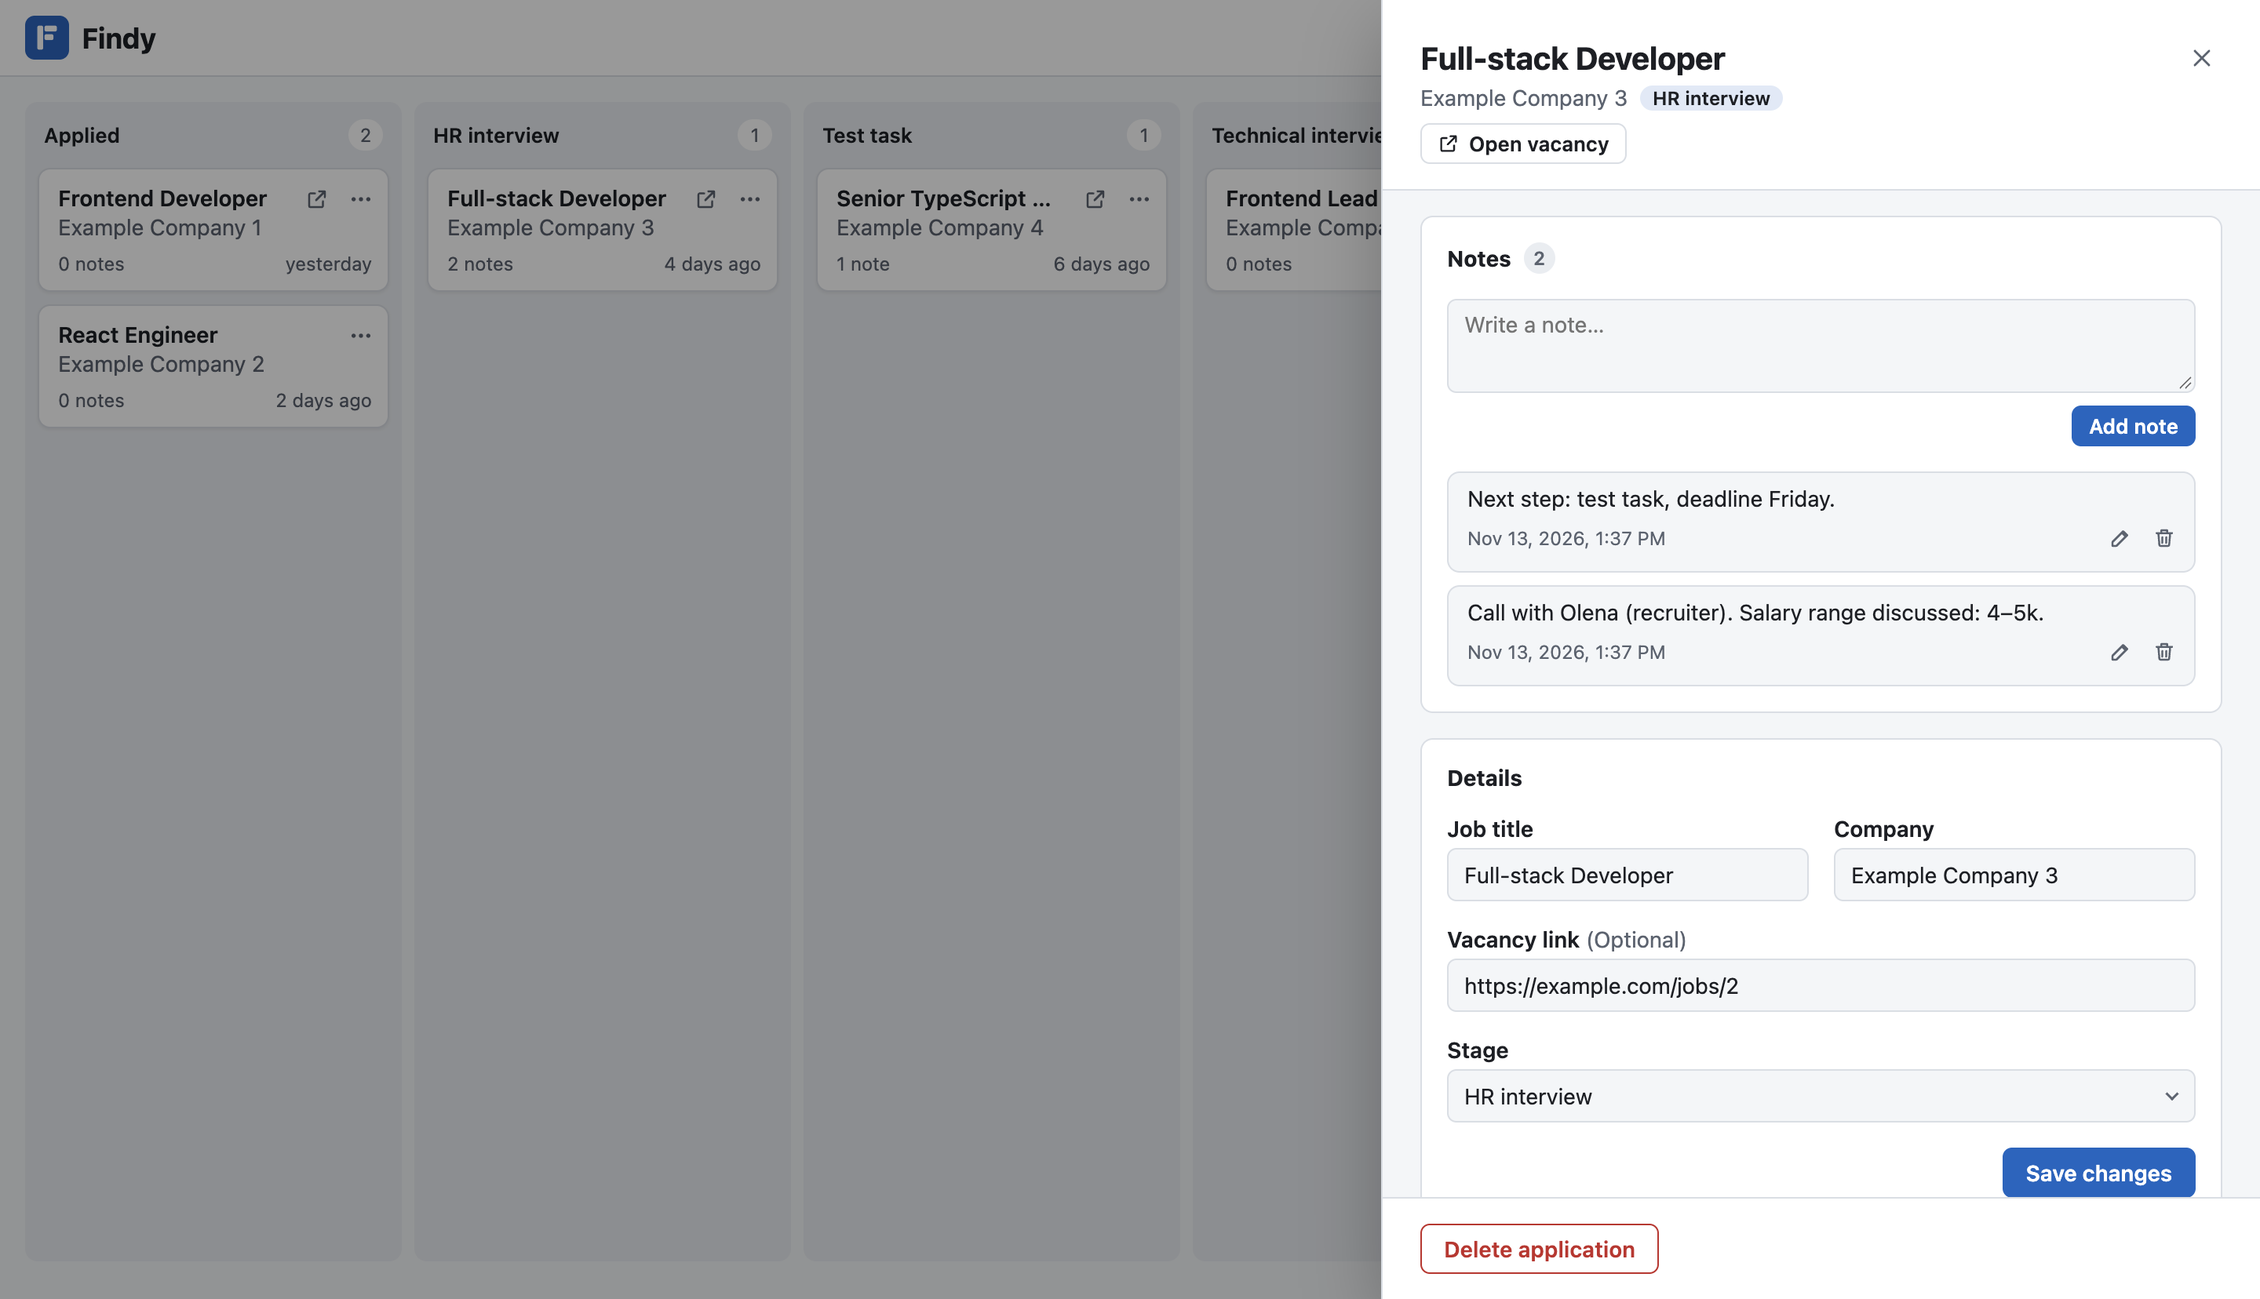
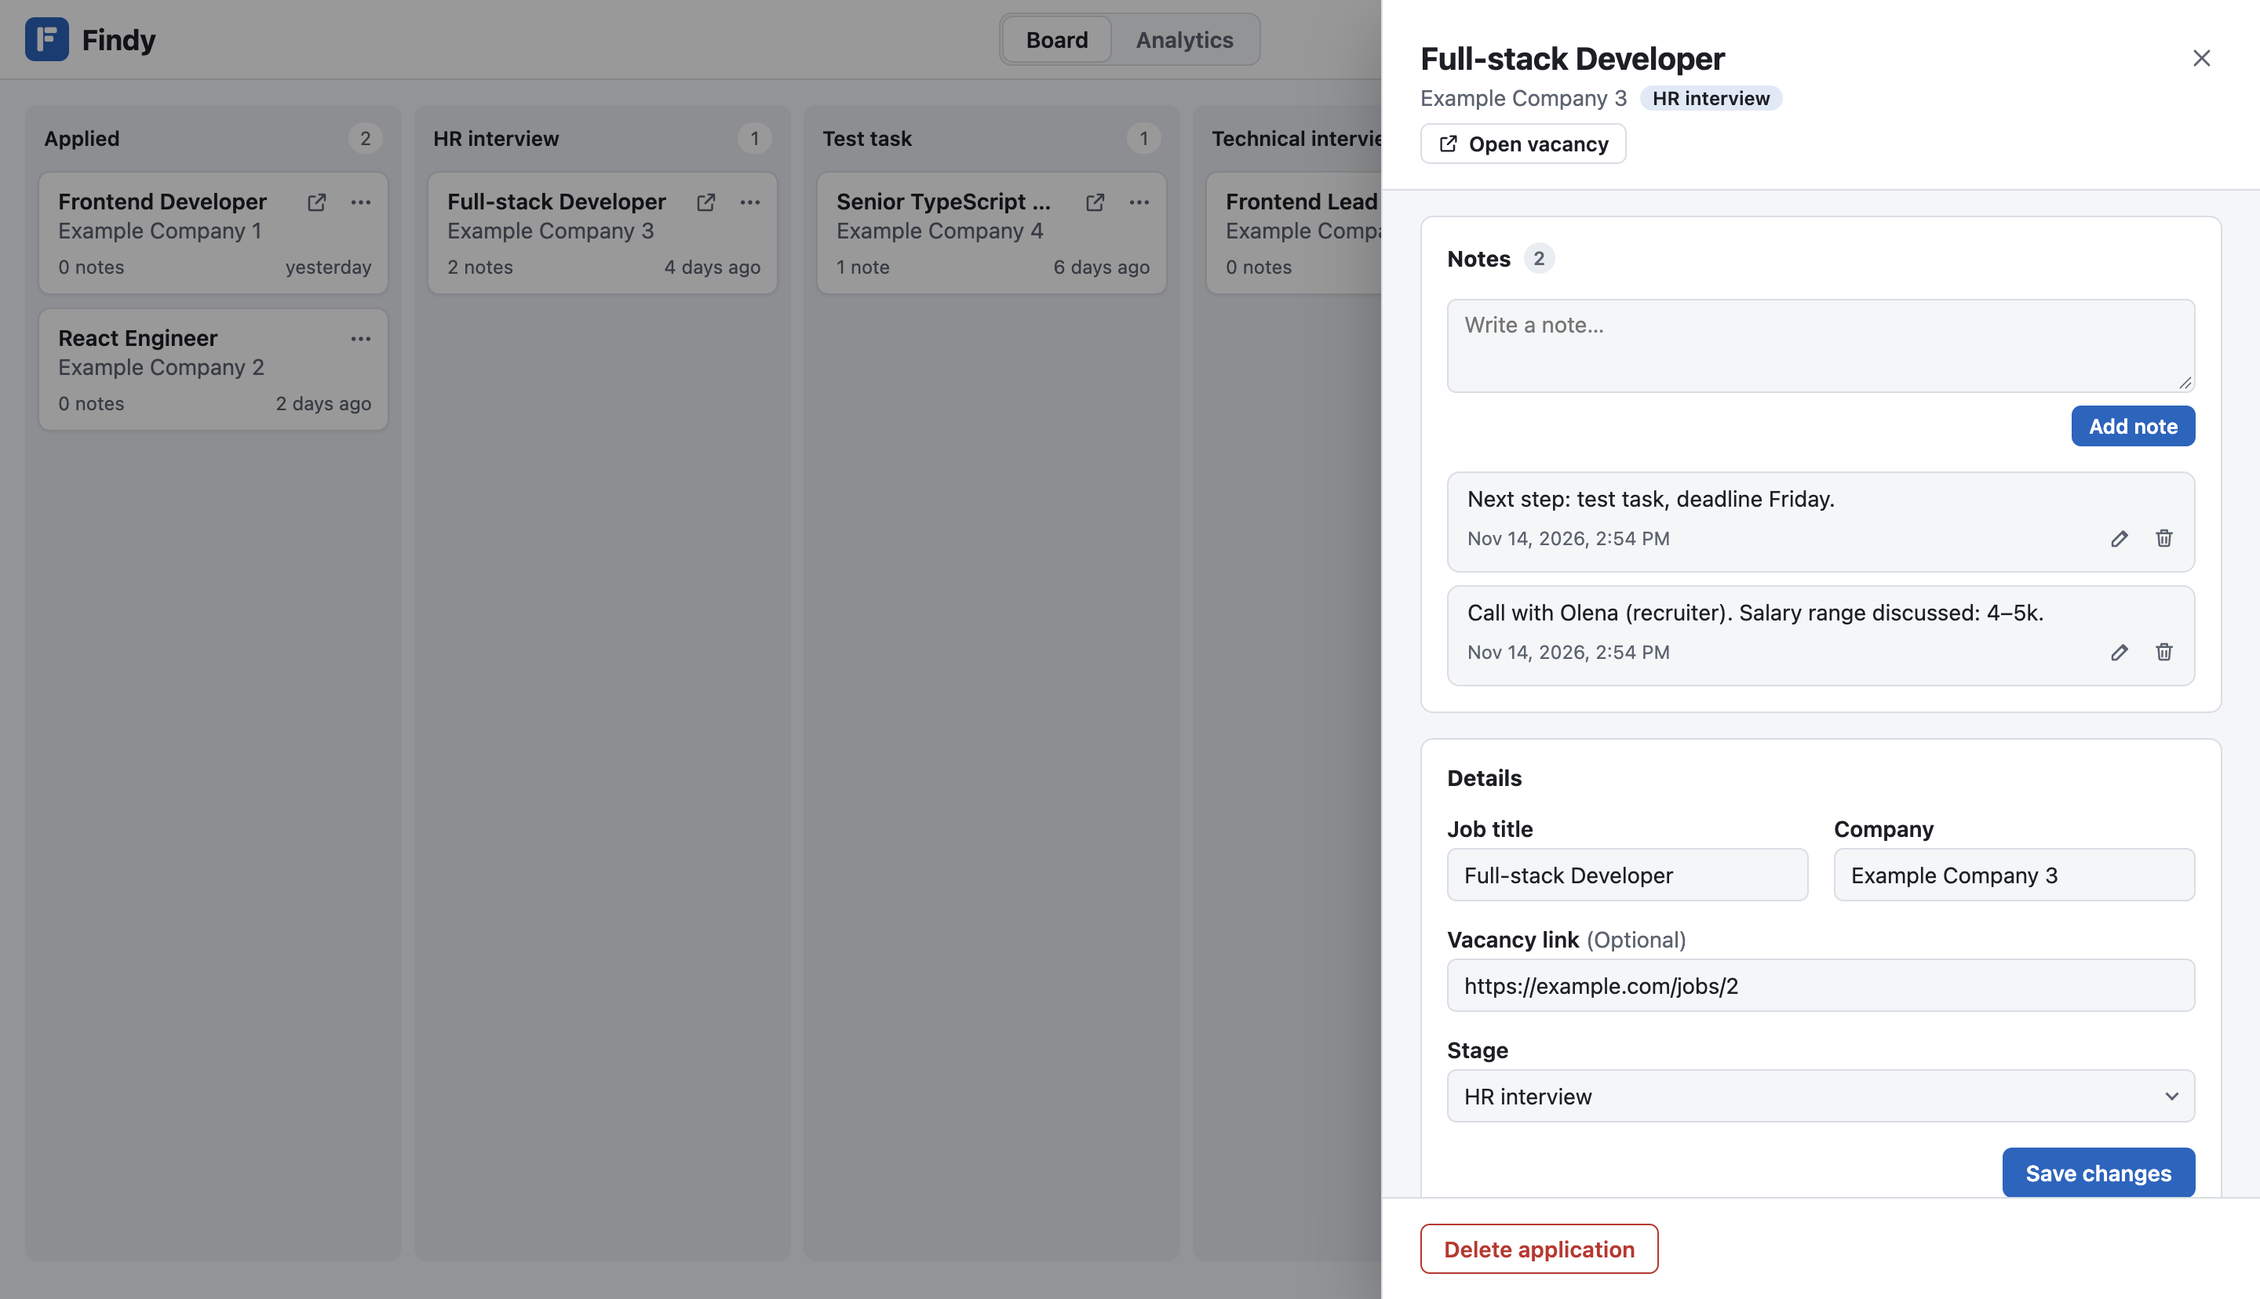
release: 0.2.0 — analytics, update check; README and screenshots
- Version 0.2.0; CHANGELOG section for analytics and the update check.
- README (en, uk): analytics and update check in the features, the
  privacy text with the one opt-in network request, a new analytics
  screenshot; board and details screenshots show the new tabs.
- Screenshot script: three months of made-up history for analytics, an
  emulated 1440×1060 Retina viewport so the whole screen fits.
- Analytics layout: the funnel takes a full row with aligned bars, and
  the chart cards in one row have the same height.
- Specs 005 and 006: Implemented.

diff --git a/e2e/self-tests/readme-screenshots.test.ts b/e2e/self-tests/readme-screenshots.test.ts
@@ -1,6 +1,7 @@
 import { join } from 'node:path'
 import Database from 'better-sqlite3'
-import { test } from '../fixtures/app'
+import type { StageId } from '../../src/domain/stages'
+import { test, type HistoryApplication } from '../fixtures/app'
 
 // Regenerates docs/screenshots/*.png for the READMEs: `npm run screenshots`.
 // Skipped in normal test runs.
@@ -160,3 +161,57 @@ for (const lang of ['en', 'uk'] as const) {
     await page.screenshot({ path: join(OUT, `details-${lang}.png`) })
   })
 }
+
+// Spec 005: three months of made-up history, so the charts have a shape. Fixed seed,
+// so the screenshots change only when the app changes.
+function demoHistory(): HistoryApplication[] {
+  let seed = 7
+  const random = () => (seed = (seed * 1_103_515_245 + 12_345) % 2 ** 31) / 2 ** 31
+  return Array.from({ length: 70 }, (_, i) => {
+    // More applications in the recent weeks
+    const created = Math.floor(84 * random() ** 1.5)
+    const reach = random()
+    const path: StageId[] = []
+    if (reach > 0.45) path.push('hr_interview')
+    if (reach > 0.62 && random() > 0.4) path.push('test_task')
+    if (reach > 0.72) path.push('technical_interview')
+    if (reach > 0.88) path.push('c_level_interview')
+    if (reach > 0.95) path.push('offered')
+    if (path.at(-1) !== 'offered' && random() > 0.55) path.push('rejected')
+    let day = created
+    const moves = path.map((stage): [StageId, number] => {
+      day = Math.max(0, day - 1 - Math.floor(random() * 6))
+      return [stage, day]
+    })
+    return { title: `Example role ${i + 1}`, createdDaysAgo: created, moves }
+  })
+}
+
+test.describe('analytics', () => {
+  test.use({ history: { applications: demoHistory() } })
+
+  for (const lang of ['en', 'uk'] as const) {
+    test(`README analytics screenshot (${lang})`, async ({ findy, page }) => {
+      // An emulated viewport at Retina density, like the other screenshots: the screen
+      // limits the height of a real window
+      const cdp = await page.context().newCDPSession(page)
+      await cdp.send('Emulation.setDeviceMetricsOverride', {
+        width: 1440,
+        height: 1060,
+        deviceScaleFactor: 2,
+        mobile: false,
+      })
+      await findy.api.setTheme('light')
+      await findy.api.setLanguage(lang)
+      await findy.api.setAnalyticsView({ period: '90d', grouping: 'week' })
+      await findy.refresh()
+      await page.getByRole('tab', { name: lang === 'en' ? 'Analytics' : 'Аналітика' }).click()
+      await page
+        .getByTestId('app')
+        .getByRole('tabpanel')
+        .getByRole('heading', { level: 2 })
+        .waitFor()
+      await page.screenshot({ path: join(OUT, `analytics-${lang}.png`) })
+    })
+  }
+})

diff --git a/src/renderer/features/analytics/ChartCard/ChartCard.tsx b/src/renderer/features/analytics/ChartCard/ChartCard.tsx
@@ -1,6 +1,7 @@
 import { useState, type ReactNode } from 'react'
 import { useTranslation } from 'react-i18next'
 import { Button, DataTable, Section } from '@ui'
+import styles from './ChartCard.module.css'
 
 interface Props {
   title: string
@@ -15,7 +16,7 @@ export function ChartCard({ title, table, children }: Props) {
   const [asTable, setAsTable] = useState(false)
   // A wrapper, so cards in a grid are not adjacent sections with a top margin
   return (
-    <div>
+    <div className={styles.card}>
       <Section
         title={title}
         actions={

diff --git a/e2e/data/findy-backdoor.ts b/e2e/data/findy-backdoor.ts
@@ -1,5 +1,6 @@
 import type { ElectronApplication, Page } from '@playwright/test'
 import type {
+  AnalyticsView,
   AppState,
   Language,
   McpConnection,
@@ -106,6 +107,10 @@ export class FindyBackdoor {
 
   async setTheme(theme: Theme): Promise<void> {
     await this.page.evaluate((value) => window.findy.setTheme(value), theme)
+  }
+
+  async setAnalyticsView(view: AnalyticsView): Promise<void> {
+    await this.page.evaluate((value) => window.findy.setAnalyticsView(value), view)
   }
 
   async setHiddenStages(stages: StageId[]): Promise<void> {

diff --git a/src/renderer/features/analytics/Analytics/Analytics.tsx b/src/renderer/features/analytics/Analytics/Analytics.tsx
@@ -58,7 +58,9 @@ export function Analytics({ applications, hiddenStages, view, onViewChange, onSh
       <div className={styles.grid}>
         <ActivityChart labels={labels} values={data.activity} />
         <StagesChart labels={labels} series={data.stages} />
-        <Funnel steps={data.funnel} rejected={data.rejected} />
+        <div className={styles.wide}>
+          <Funnel steps={data.funnel} rejected={data.rejected} />
+        </div>
       </div>
     </div>
   )

diff --git a/src/renderer/features/analytics/Funnel/Funnel.module.css b/src/renderer/features/analytics/Funnel/Funnel.module.css
@@ -14,7 +14,8 @@
 
 .step {
   display: grid;
-  grid-template-columns: minmax(0, 11em) minmax(0, 1fr) auto;
+  /* A fixed column for the numbers, so every bar track ends at the same place */
+  grid-template-columns: minmax(0, 11em) minmax(0, 1fr) 7.5em;
   align-items: center;
   gap: var(--space-2);
 }

diff --git a/src/renderer/features/analytics/Analytics/Analytics.module.css b/src/renderer/features/analytics/Analytics/Analytics.module.css
@@ -38,6 +38,11 @@
   min-width: 0;
 }
 
+/* The funnel is wide and short: it takes a full row under the two charts */
+.wide {
+  grid-column: 1 / -1;
+}
+
 .empty {
   max-width: 560px;
   margin: var(--space-6) auto;

diff --git a/src/renderer/features/analytics/ChartCard/ChartCard.module.css b/src/renderer/features/analytics/ChartCard/ChartCard.module.css
@@ -1,0 +1,4 @@
+/* A grid, so the card fills its grid cell and cards in one row are the same height */
+.card {
+  display: grid;
+}

diff --git a/README.uk.md b/README.uk.md
@@ -6,7 +6,7 @@
 
 [English](README.md)
 
-> **Статус: 0.1.0, перший реліз.** Завантажити можна на сторінці
+> **Статус: 0.2.0, з аналітикою та перевіркою оновлень.** Завантажити можна на сторінці
 > [Releases](https://github.com/YuraBerez/findy/releases). Будемо раді відгукам: кнопка
 > *Знайшли проблему?* у застосунку.
 
@@ -16,6 +16,8 @@ Findy збирає всі заявки на одній дошці: від від
 ![Дошка Findy: заявки в колонках етапів](docs/screenshots/board-uk.png)
 
 ![Деталі заявки з нотатками, полями та історією етапів](docs/screenshots/details-uk.png)
+
+![Аналітика: надіслані заявки, етапи в часі, воронка й підсумки](docs/screenshots/analytics-uk.png)
 
 ## Можливості
 
@@ -31,10 +33,17 @@ Findy збирає всі заявки на одній дошці: від від
 - **Вакансія в один клік:** картка з посиланням відкриває його в браузері.
 - **Панель деталей:** редагування заявки та історія етапів у вигляді таймлайну.
 - **Історія етапів:** на картці видно, скільки часу заявка на поточному етапі.
+- **Аналітика:** скільки заявок ви надсилаєте за день, тиждень чи місяць, скільки було
+  HR-, технічних і C-level співбесід, і як далеко заходять заявки у воронці. Кожен
+  графік можна показати таблицею.
+- **Перевірка оновлень:** **⋯ → Перевірити оновлення…** скаже, коли вийде нова версія.
+  Автоматичну перевірку можна ввімкнути в тому ж меню (за замовчуванням вимкнена).
 - Інтерфейс **українською та англійською**, **світла й темна** тема.
 - **Почати спочатку:** очищення дошки в один крок, перед цим Findy робить резервну копію.
 - **Приватність.** Працює офлайн, без акаунта й без телеметрії. Дані зберігаються
-  в локальній базі SQLite на вашому комп'ютері.
+  в локальній базі SQLite на вашому комп'ютері. Єдиний мережевий запит, який може
+  зробити Findy, — перевірка оновлень, і лише коли ви її запустили чи ввімкнули; вона
+  не передає жодних даних.
 - **Windows, macOS і Linux.**
 
 ## Завантаження
@@ -144,7 +153,7 @@ npm run dev          # запуск із гарячим перезавантаж
 нотатка, видалити (асистент спершу питає вас). Правила ті самі, що в застосунку, а
 відкрите вікно Findy показує зміни протягом секунди.
 
-**Приватність:** сам Findy не робить мережевих запитів. Підключений асистент передає
+**Приватність:** сам Findy нікуди не передає ваші дані. Підключений асистент передає
 прочитане своєму AI-провайдеру — лише коли ви просите його попрацювати з дошкою.
 
 ## Де мої дані?

diff --git a/README.md b/README.md
@@ -6,7 +6,7 @@
 
 [Українською](README.uk.md)
 
-> **Status: 0.1.0, the first release.** Download it from
+> **Status: 0.2.0, with analytics and an update check.** Download it from
 > [Releases](https://github.com/YuraBerez/findy/releases). Feedback is welcome: use the
 > *Found an issue?* button in the app.
 
@@ -17,6 +17,8 @@ apply until you get an offer.
 ![Findy board: applications in stage columns](docs/screenshots/board-en.png)
 
 ![Application details with notes, fields and stage history](docs/screenshots/details-en.png)
+
+![Analytics: applications sent, stages over time, funnel and totals](docs/screenshots/analytics-en.png)
 
 ## Features
 
@@ -32,10 +34,16 @@ apply until you get an offer.
 - **One click to the vacancy.** Cards with a link open it in your browser.
 - **Details panel.** Edit an application and see its stage history as a timeline.
 - **Stage history.** Each card shows how long it has been in its stage.
+- **Analytics.** See how many applications you send per day, week or month, how many
+  HR, technical and C-level interviews you get, and how far your applications go in a
+  funnel. Every chart can also show its numbers as a table.
+- **Update check.** **⋯ → Check for updates…** tells you when a new version is out.
+  Turn on the automatic check in the same menu if you want it (off by default).
 - **English and Ukrainian** interface, **light and dark** theme.
 - **Start over.** Reset the board in one step; Findy keeps a backup first.
 - **Private by design.** Works offline, no account, no telemetry. Your data lives in a
-  local SQLite database on your computer.
+  local SQLite database on your computer. The only network request Findy can make is
+  the update check, and only when you start it or turn it on; it sends no data.
 - **Windows, macOS and Linux.**
 
 ## Download
@@ -143,7 +151,7 @@ Tools: list and get applications, list stages, add, update, move, add a note,
 delete (the assistant asks you first). The same rules apply as in the app, and an
 open Findy window shows the changes within a second.
 
-**Privacy:** Findy itself makes no network requests. The assistant you connect sends
+**Privacy:** Findy itself sends your data nowhere. The assistant you connect sends
 what it reads to its AI provider, and only when you ask it to work with your board.
 
 ## Where is my data?

diff --git a/CHANGELOG.md b/CHANGELOG.md
@@ -3,6 +3,19 @@
 All notable changes to Findy. Versions follow [SemVer](https://semver.org/);
 pre-1.0 releases can change behaviour between minor versions.
 
+## [0.2.0] - 2026-11-18
+
+### Analytics
+- A new **Analytics** tab next to **Board** (Cmd/Ctrl+1 and Cmd/Ctrl+2 switch between them).
+- **Applications sent** per day, week or month, and **Stages over time**: how many HR, test-task, technical and C-level interviews, offers and rejections you had. Turn stages on and off in the legend.
+- A **funnel**: how many applications of the period reached each stage, with percentages, and the totals at the top.
+- Periods: last 7, 30, 90 days or all time. Hover a bar or use the arrow keys to see its value; every chart can show its numbers as a table.
+- Everything is calculated on your computer from the data that Findy already keeps.
+
+### Update check
+- **⋯ → Check for updates…** tells you if a newer version is on GitHub and opens its download page.
+- **⋯ → Check for updates automatically** checks at start, at most once a day. It is **off by default**: Findy makes no network request until you check or turn it on, and the check sends no data.
+
 ## [0.1.1] - 2026-11-17
 
 ### Fixed

diff --git a/specs/README.md b/specs/README.md
@@ -43,5 +43,5 @@ Rules:
 | 002 | [Hidden columns](002-hidden-columns/spec.md) | Implemented |
 | 003 | [Error handling](003-error-handling/spec.md) | Implemented |
 | 004 | [MCP server](004-mcp-server/spec.md) | Implemented |
-| 005 | [Analytics](005-analytics/spec.md) | Approved |
-| 006 | [Update check](006-update-check/spec.md) | Approved |
+| 005 | [Analytics](005-analytics/spec.md) | Implemented |
+| 006 | [Update check](006-update-check/spec.md) | Implemented |

diff --git a/specs/006-update-check/spec.md b/specs/006-update-check/spec.md
@@ -1,7 +1,7 @@
 # Feature Spec: Update check
 
 - **ID:** 006-update-check
-- **Status:** Approved
+- **Status:** Implemented (0.2.0)
 - **Created:** 2026-11-18
 - **Approved:** 2026-11-18 (owner)
 - **Builds on:** [001-mvp-board](../001-mvp-board/spec.md) (FR-070…FR-072, NFR-001), [003-error-handling](../003-error-handling/spec.md)
